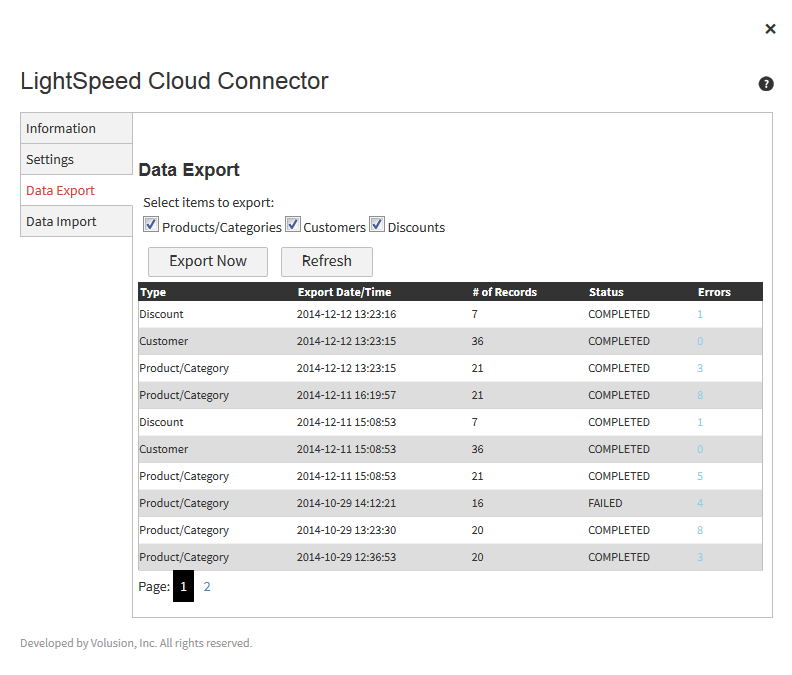
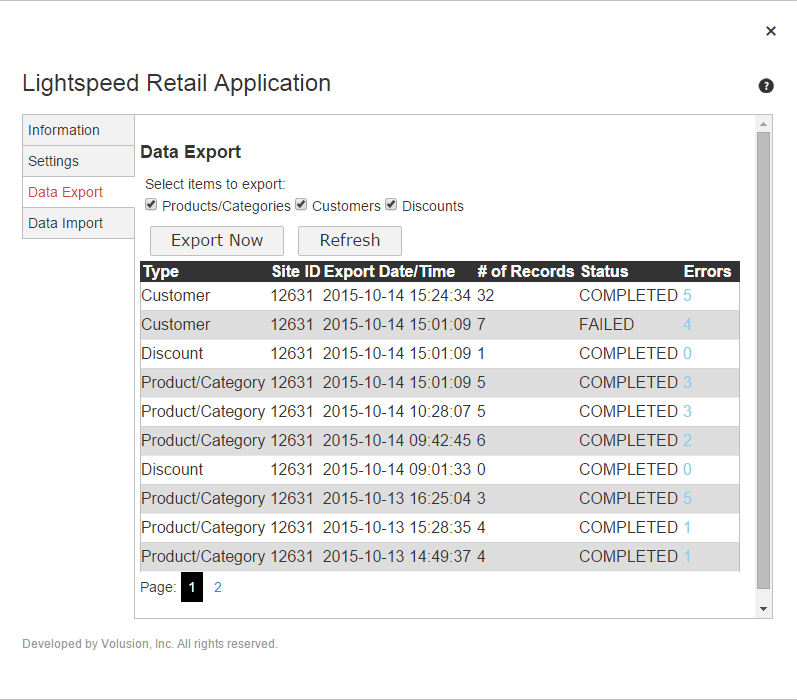
Doc updates Nov 2015
Updated to include the ability to specify a date range for order
imports.

diff --git a/Preview/LightSpeed/Mozu-LightSpeed-App.htm b/Preview/LightSpeed/Mozu-LightSpeed-App.htm
@@ -1,8 +1,8 @@
 <?xml version="1.0" encoding="utf-8"?>
 <html xmlns:MadCap="http://www.madcapsoftware.com/Schemas/MadCap.xsd" MadCap:lastBlockDepth="15" MadCap:lastHeight="488" MadCap:lastWidth="1168">
-    <head><title>LightSpeed by Mozu</title>
+    <head><title>LightSpeed Retail Application by Mozu</title>
         <meta name="author" content="Mozu" />
-        <meta name="description" content="User content for LightSpeed by Mozu" />
+        <meta name="description" content="User content for the LightSpeed Retail Application by Mozu" />
         <meta name="keywords" content="LightSpeed,Mozu" />
 		<link rel="shortcut icon" href="http://www.mozu.com/favicon.ico" />
 		
@@ -104,7 +104,7 @@
                     <div class="navbar-collapse collapse">
                         <ul class="nav navbar-nav navbar-right">
 						<li><a href="versionhistory.html"><span>Version History</span></a></li>
-							<li><a href="//developer.mozu.com/learn/mozu-concepts"><span>Mozu Concepts</span></a></li>
+							<li><a href="http://developer.mozu.com/content/learn/Introduction.htm"><span>Mozu Dev Center</span></a></li>
                         </ul>
                     </div>
                 </div>
@@ -113,18 +113,22 @@
 		<!--Side Navigation TOC -->
 		<div class="row">
 		<div class="landing-title">
-			<h1>LightSpeed Retail Connector Configuration Guide</h1>	
+			<h1>LightSpeed Retail Application Configuration Guide</h1>	
 		</div>
 			<div class="col-md-3" >
 				<nav class="bs-docs-sidebar" >
-					<ul class="nav nav-stacked" >
+					<ul class="nav nav-stacked">
 						<div class="side-heading">Table of Contents</div>
 							<li><a href="#intro">Welcome to LightSpeed and Mozu</a></li>
-							<li><a href="#install">Install LightSpeed</a></li>
+							<li><a href="#install">Install the App</a></li>
 							<li><a href="#configapp">Configure the App</a></li>
 							<li><a href="#enable">Enable the App</a></li>
-							<li><a href="#exportmozu">Export Data from Mozu</a></li>
-							<li><a href="#importlightspeed">Import Data from LightSpeed</a></li>
+							<li><a href="#useapp">Use the App</a>
+								<ul class="nav nav-stacked">
+								<li><a href="#exportmozu">Export Data from Mozu</a></li>
+								<li><a href="#importlightspeed">Import Data from LightSpeed</a></li>
+								</ul>
+						</li>
 							
 					</ul>
 				</nav>
@@ -137,95 +141,106 @@
 					
 					<p><a href="http://www.lightspeedpos.com/retail/pos-system/">LightSpeed Retail</a> provides services to manage your inventory, point of sale, and reporting through your eCommerce storefront. Customers can browse and purchase products from any storefront on any device using multiple forms of payment (cash, credit, debit, in-store credit, gift cards, and more).</p>
 					
-					<p><a href="http://www.mozu.com">Mozu</a> offers an app to leverage LightSpeed Retail services to manage your orders, sync your inventory, and extend your management systems. Through the app, you can map Mozu locations with LightSpeed shops, set import frequencies for Mozu, and manage data imports and exports. Exported data supports Products/Categories, Customers, and Discounts from Mozu into LightSpeed. After modifying your LightSpeed Retail inventory configurations, you can import data into Mozu to sync orders and inventory amounts.  </p>
+					<p><a href="http://www.mozu.com">Mozu</a> offers an app to leverage LightSpeed Retail services to manage your orders, sync your inventory, and extend your management systems. Through the app, you can map Mozu locations to LightSpeed shops, set import frequencies for Mozu, and manage data imports and exports. You can export data (Products/Categories, Customers, and Discounts) from Mozu, modify your inventory configurations in LightSpeed Retail, and import the new data back into Mozu to sync orders and inventory amounts.</p>
 					
-					<p><b>Note:</b> This app only supports the LightSpeed Retail product.</p>
+					<p class="panel-note"><strong>Note:</strong> This app only supports the LightSpeed Retail product.</p>
+
+					<p><strong>Application Features:</strong></p>
+					<ul>
+                            <li>Transfers information between Mozu and your LightSpeed Retail account so you can manage orders and inventory as shoppers make purchases through multiple storefronts.</li>
+                            <li>Updates contacts, orders, inventory, and products with categories.</li>
+                            <li>Maps your various Mozu sites to different LightSpeed shops to maintain a 1-to-1 relationship for inventory management.</li>
+							<li>Enables you to continue using LightSpeed Retail reporting and analytics against Mozu products and purchases.</li>
+                        </ul>
+						 
+					<h3>LightSpeed/Mozu Communication Process</h3>
+						<p>When a shopper submits an order and completes payment, the following occurs between Mozu and the LightSpeed app:</p>
+						
+						<ol>
+						<li>LightSpeed Retail verifies and processes the order inventory amounts and payment information. If the inventory exists per the entered requests (in-store, online to deliver at home, etc.) and the payment information processes, LightSpeed Retail updates the order status and inventory amounts.</li>
+						<li>At the configured frequency, the app imports data for completed orders to Mozu from LightSpeed Retail.</li>
+						<li>Mozu updates all inventory based on the configured locations, amounts, and purchase/delivery requirements. For example, inventory from a warehouse for online delivery versus in-store pickup from an in-store inventory of a brick and mortar storefront.</li>
+						<li>As data updates in Mozu, any changes, including changes to products and categories, customer entries, are exported back to LightSpeed Retail. </li>
+						</ol>
 
 				</section>
 				<section id="install">
-					<h2 >Install Mozu LightSpeed Retail Application on Your Tenant</h2>
+					<h2 >Install the Mozu LightSpeed Retail Application on Your Tenant</h2>
                         <p>After purchasing the Mozu LightSpeed Retail Application, call your sales or professional services representative and request installation on your tenant. Mozu staff will install the app to your tenant, making it available for further configuration and usage in your storefront.</p>
-                        
-                        <p>This custom app integrates LightSpeed Retail with Mozu to support the following:</p>
-                        
-                        <ul>
-                            <li>Export and import information from Mozu to your LightSpeed Retail account to manage orders and inventory as shoppers make purchases through the storefront.</li>
-                            <li>Update contacts, orders, inventory, and products with categories between both systems to leverage features in Mozu and LightSpeed Retail.</li>
-							<li>Allow you to continue using LightSpeed Retail reporting and analytics against Mozu products and purchases.</li>
-                        </ul>
-						 
-						<p>When a shopper submits an order and completes payment, the following occurs between Mozu and the LightSpeed app:</p>
-						
-						<ul>
-						<li>LightSpeed Retail verifies and processes the order inventory amounts and payment information. If the inventory exists per the entered requests (in-store, online to deliver at home, etc) and the payment information processes, LightSpeed Retail updates the order status and inventory amounts.</li>
-						<li>At the configured time and frequency per day, the completed order data is imported into Mozu from LightSpeed Retail.</li>
-						<li>Mozu updates all inventory based on the configured locations, amounts, and purchase/delivery requirements. For example, inventory from a warehouse for online delivery versus in-store pickup from an in-store inventory of a brick and mortar storefront.</li>
-						<li>As data updates in Mozu, it is exported to LightSpeed Retail, including changes to products and categories, customer entries, and discounts. </li>
-						</ul>
-						
-                        <h3 id="configreq">Configuration Requirements</h3>
-						 <p>To configure LightSpeed Retail to work seamlessly with Mozu, you need specific items installed and settings provided. This guide details each step from requirements to final configuration for reviewing order for legitimacy and fraud potential.</p>
                        
+ 				</section>                       
+       				<section id="configapp">	         
+						<h2>Configure the Application</h2>
+                        
+						 <p>To integrate your LightSpeed services with Mozu, review the configuration requirements to ensure you have everything you need to be successful before you begin, and then complete the steps in this section.</p>
+                       <h3 id="configreq">Configuration Requirements</h3>
                         <p>You must meet the following criteria to configure the LightSpeed Retail Connector app:</p>
                         <ul>
                             <li>You must have the Mozu LightSpeed Retail Application installed on your tenant.</li>
                             <li>You must have an active <a href="https://cloud.merchantos.com/login.html">LightSpeed Retail</a> account.</li>
                         </ul>
-				</section>
-				<section id="configapp">				
-                        <h2>Configure the Application</h2>
+
+			<h3 id="authorize">Authorize Mozu to Access LightSpeed</h3>
+                        
 						<p>To integrate your LightSpeed services with Mozu, you must authorize Mozu to access your LightSpeed account. </p>
+						<p class="panel-tip"><strong>Tip:</strong> If you have multiple LightSpeed accounts, you can repeat this procedure for each account.</p>
                         <ol>
-                            <li>From the Mozu Admin page, select <b>Settings</b> &gt; <b>Applications</b>.</li>
-                            <li>Click the <b>Mozu LightSpeed Retail Application</b>.</li>
-                            <li>Click the <b>Configuration</b> link to open configuration settings.</li>
-							<li>On the Settings tab, click <b>Add LightSpeed Account</b>.</li>
-							<li>Select a Mozu Site to link to a LightSpeed Retail account, and then click the <b>Authorize Mozu to Access LightSpeed</b> button.</li>
-							<li>On the LightSpeed Retail login page, sign in with your LightSpeed credentials to authorize Mozu to use your LightSpeed Retail account.</li>
-							<li>Once you've authorized Mozu to use your LightSpeed Retail account, map your Mozu site to your LightSpeed Account. Under the <em>Map Site to LightSpeed Account</em> header, use the drop-down menus to select your Mozu Site and the appropriate LightSpeed Account.<br/>
+                            <li>From Mozu Admin, select <strong>Settings</strong> &gt; <strong>Applications</strong>.</li>
+                            <li>Click the <strong>Mozu LightSpeed Retail Application</strong>.</li>
+                            <li>Click the <strong>Configuration</strong> link to open configuration settings.</li>
+							<li>On the <strong>Settings</strong> tab, click <strong>Add LightSpeed Account</strong>.</li>
+							<li>Select a <strong>Mozu Site</strong> to link to a LightSpeed Retail account and click <strong>Next</strong>.</li>
+							<li>Click the <strong>Authorize Mozu to Access LightSpeed</strong> button.</li>
+							<li>On the LightSpeed Retail login page, sign in with your LightSpeed credentials to authorize Mozu to access your LightSpeed Retail account.</li>
+							<li>Once you've authorized Mozu to use your LightSpeed Retail account, additional fields appear to map your Mozu locations to LightSpeed shops:
 							<img src="lightspeed-settings.png" class="img-mozu"/></li>
-							<li>Under <em>Map Mozu Locations to LightSpeed Shops</em>, select the <b>Mozu Location</b> and map it to a LightSpeed Shop from the drop-down menus. If you want to map additional Mozu locations to LightSpeed Shops, click <b>Add Location</b>.</li>
-							<li>Select the <b>Import Frequency for Sales Import</b>. This sets the amount of times per day LightSpeed exports data to Mozu. Options include Disabled, minutes 1 to 30, 1 hour, 8 hours, 12 hours, and Daily.</li>
-							<li>Click <b>Save</b>. This step connects and configures Mozu to your LightSpeed Retail account.</li>
+							<li>Select the <strong>Lightspeed Account</strong> for which you are mapping locations and shops.</li>
+							<li>Use the <strong>Mozu Location</strong> and <strong>LightSpeed Shop</strong> menus to map locations to shops.</li> 
+							<li>(Optional) If you want to map additional Mozu locations to LightSpeed shops, click <strong>Add Location</strong>.</li>
+							<li>Under <strong>Sales Import</strong>, select the <strong>Import Frequency</strong> for data transfers from LightSpeed to Mozu. Importing data more frequently ensures the most accurate information appears in Mozu. Importing data less frequently can save bandwidth and optimize performance.<br><span class="panel-note"><strong>Note:</strong> You can also <a href="#importlightspeed">import data manually</a> from the <strong>Data Import</strong> tab.</span></li>
+							<li>Click <strong>Save</strong>.</li>
 						</ol>
                         						
 				</section>
 				<section id="enable">
-                        <h2>Enable Mozu LightSpeed Retail Application</h2>
+                        <h2>Enable the App</h2>
+                        <p>After configuration, enable the LightSpeed Retail Application in Mozu to apply its functionality to your tenant:</p>
                         <ol>
-                            <li>On the Mozu Admin top bar, select <b>Settings</b> &gt; <b>Applications</b>.</li>
-                            <li>Click <b>Mozu LightSpeed Retail Application</b>.</li>
-                            <li>Click <b>Enable App</b> on the LightSpeed page.</li>
+                            <li>On the Mozu Admin top bar, select <strong>Settings</strong> &gt; <strong>Applications</strong>.</li>
+                            <li>Click <strong>Mozu LightSpeed Retail Application</strong>.</li>
+                            <li>Click <strong>Enable App</strong> on the LightSpeed page.</li>
                         </ol>
 				</section>
-				<section id="exportmozu">
-                        <h2>Export Data From Mozu to LightSpeed Retail</h2>
-						<p>With your Mozu and LightSpeed Retail accounts connected and configured, you should perform an export of data to LightSpeed. This data sets the available products, inventory amounts, and data for orders including customer records and available discounts.</p>
-						<p>As you make changes to your catalog, customer records, and discounts, the event system keeps LightSpeed updated with add, delete, and update information.</p>
-						<p>The tab displays the selectable data types to export, a manual export button, and a refresh option for the table. The table displays an entry of exported data per data type with the date/time, number of records exported, status, and a linked error log. If no errors occur, the link is 0 without data to display. The status options include in-progress, failed, and completed.</p>
+				<section id="useapp">
+					<h2>Use the App</h2>
+					<p class="panel-note"><strong>Note:</strong> You must <a href="#enable">enable the LightSpeed Retail Application in Mozu</a> before you can import or export data.</p>
+                        <h3 id="exportmozu">Export Data From Mozu to LightSpeed Retail</h3>
+						<p>You must perform a data export the first time you configure and enable the LightSpeed app. This initial export sets the available products, inventory amounts, and data for orders, including customer records and available discounts. After the initial export, changes to your catalog, customer records, and discounts, are automatically sent to LightSpeed through events.</p>
+						<p class="panel-note"><strong>Note:</strong> You do NOT need to manually export data every time you make an update in Mozu. After the initial data export, the app automatically handles data additions, deletions, and updates. You only need to re-export data if your data has become inaccurate and you are scrubbing and replacing existing entries.</p>
+						
                         <ol>
-                            <li>On the Mozu Admin top bar, select <b>Settings</b> &gt; <b>Applications</b>.</li>
-                            <li>Click <b>Mozu LightSpeed Retail Application</b>.</li>
-                            <li>Click the Configuration link to open configuration settings. </li>
-							<li>Click the <b>Data Export</b> tab.</li>
-							<li>Select what data you want to export to LightSpeed Retail from Mozu: Products/Categories, Customers, and/or Discounts. Selecting all options is recommended. </li>
-							<li>Click <b>Export Now</b>.</li>
+                            <li>On the Mozu Admin top bar, select <strong>Settings</strong> &gt; <strong>Applications</strong>.</li>
+                            <li>Click <strong>Mozu LightSpeed Retail Application</strong>.</li>
+                            <li>Click the <strong>Configuration</strong> link to open configuration settings. </li>
+							<li>Go to the <strong>Data Export</strong> tab.</li>
+							<li>Select the type of data you want to export to LightSpeed Retail from Mozu: Products/Categories, Customers, and/or Discounts. Selecting all options is recommended. </li>
+							<li>Click <strong>Export Now</strong>.</li>
 							<li>An export job begins for each data type, posting an entry in the table with the date/time, number of records exported, status, and a linked error log. <br/>
 							<img src="lightspeed-export.png" class="img-mozu"/></li>
                         </ol>
-				</section>
-				<section id="importlightspeed">
-                        <h2 >Import Data From LightSpeed Retail to Mozu</h2>
-						<p>The data imported from LightSpeed Retail is maintained on an automated schedule. This schedule is determined by the frequency configuration in the Settings tab. The next scheduled import is displayed with a date and time. The imported data is for completed sales which updates order, customer, and inventory data in Mozu. </p>
-						<p>The table includes an entry for every import listed by date and time. The number of sales is listed. If no sales are imported, the amount is listed as 0. The status is displayed as in progress, failed, or completed. A linked report of errors provides details on each import. </p>
-						<p>You can import data at the scheduled time or on-demand by clicking <b>Import Now</b>.</p>
+
+                    <h3 id="importlightspeed">Import Data From LightSpeed Retail to Mozu</h3>
+						<p>Most data imports from LightSpeed Retail occur automatically, according to the <strong>Import Frequency</strong> you specify when you <a href="#configapp">configure the app</a>. The <strong>Data Import</strong> tab shows the date and time of the <strong>Next Scheduled Import</strong>, as well as a table listing details for previous imports. Each import contains all sales that were completed since the previous import, and updates order, customer, and inventory data in Mozu.</p>
+						
+						<p>The tab also includes an <strong>Import Now</strong> option that you can use to manually import data from LightSpeed to Mozu:</p>
                         <ol>
-                            <li>On the Mozu Admin top bar, select <b>Settings</b> &gt; <b>Applications</b>.</li>
-                            <li>Click <b>Mozu LightSpeed Retail Application</b>.</li>
-                            <li>Click the Configuration link to open configuration settings. </li>
-							<li>Click the <b>Data Import</b> tab.</li>
-							<li>Click <b>Import Now</b>.</li>
-							<li>An import job begins from LightSpeed Retail, posting an entry in the table with the date/time, number of sales, status, and a linked error log. <br/>
+                            <li>On the Mozu Admin top bar, select <strong>Settings</strong> &gt; <strong>Applications</strong>.</li>
+                            <li>Click <strong>Mozu LightSpeed Retail Application</strong>.</li>
+                            <li>Click the <strong>Configuration</strong> link to open configuration settings. </li>
+							<li>Go to the <strong>Data Import</strong> tab.</li>
+							<li>(Optional) Specify a date range for which to import orders. If you do not specify a date range, the app imports all sales that have been processed in LightSpeed since the last data import.</li>
+							<li>Click <strong>Import Now</strong>.</li>
+							<li>An import job begins from LightSpeed Retail, posting an entry in the table with the date/time, number of sales, status, and a linked error log: <br/>
 							<img src="lightspeed-import.png" class="img-mozu"/></li>
                         </ol>
 				</section>

diff --git a/Preview/LightSpeed/versionhistory.html b/Preview/LightSpeed/versionhistory.html
@@ -2,7 +2,7 @@
 <html>
     <head><title>Version History</title>
         <meta name="author" content="Mozu" />
-        <meta name="description" content="App version history for Mozu app." />
+        <meta name="description" content="App version history for the LightSpeed Retail Application for Mozu." />
         <meta name="keywords" content="Mozu,App" />
 		<link rel="shortcut icon" href="http://www.mozu.com/favicon.ico" />
 		
@@ -104,7 +104,7 @@
                     <div class="navbar-collapse collapse">
                         <ul class="nav navbar-nav navbar-right">
 						<li><a href="Mozu-LightSpeed-App.htm"><span>App Documentation</span></a></li>
-							<li><a href="//developer.mozu.com/learn/mozu-concepts"><span>Mozu Concepts</span></a></li>
+							<li><a href="http://developer.mozu.com/content/learn/Introduction.htm"><span>Mozu Dev Center</span></a></li>
                         </ul>
                     </div>
                 </div>
@@ -113,12 +113,13 @@
 		<!--Side Navigation TOC -->
 		<div class="row">
 		<div class="landing-title">
-			<h1>Mozu App Version History for LightSpeed</h1>	
+			<h1>LightSpeed Retail Application for Mozu Version History</h1>	
 		</div>
 			<div class="col-md-3" >
 				<nav class="bs-docs-sidebar" >
 					<ul class="nav nav-stacked" >
 						<div class="side-heading">Table of Contents</div>
+							<li><a href="#Nov2015">November 2015</a></li>
 							<li><a href="#Apr2015">April 2015</a></li>
 							<li><a href="#Mar2015">March 2015</a></li>
 					</ul>
@@ -127,9 +128,16 @@
                     
             <div class="col-md-9 content" >
                 <!-- Documentation content -->
+                <section id="Nov2015">
+					<h2>November, 2015</h2>
+					<p>Thanks for using the LightSpeed Retail Application for Mozu! Here's what's new in this version:</p>
+					<ul>
+					<li>Added the ability to specify a date range for manual sales imports.</li>
+					</ul>
+				</section>
 				<section id="Apr2015">
 					<h2>April, 2015</h2>
-					<p>Thanks for using the LightSpeed Cloud Connector by Mozu! Here's what's new in this version:</p>
+					<p>Thanks for using the LightSpeed Retail Application for Mozu! Here's what's new in this version:</p>
 					<ul>
 					<li>Increased the speed of loading and saving configuration data.</li>
 					<li>Fixed an issue where users could not switch the LightSpeed account associated with their Mozu tenant.</li>

diff --git a/Preview/LightSpeed/mozu-bootswatch.css b/Preview/LightSpeed/mozu-bootswatch.css
@@ -605,16 +605,29 @@ ol {
 	margin-bottom: 10px;
 }
 
+li p.note {
+	margin-bottom: 0;
+	line-height: 1.42857143;
+}
+
 ul {
 	list-style-type: square;
+}
+
 }
 ul ul,
 ol ul,
 ul ol,
 ol ol {
 	margin-bottom: 0;
-	list-style-type: square;
+	padding: 0;
 }
+
+ol ol {	
+	list-style-type: lower-alpha;
+	margin-bottom: 0;
+}
+
 .list-unstyled {
 	padding-left: 0;
 	list-style: none;
@@ -628,6 +641,7 @@ ol ol {
 	display: inline-block;
 	padding-left: 5px;
 	padding-right: 5px;
+
 }
 dl {
 	margin-top: 0;
@@ -4409,6 +4423,32 @@ a.list-group-item-danger.active:focus {
 	border-bottom-right-radius: 0px;
 	border-bottom-left-radius: 0px;
 }
+.panel-note {
+    padding: 10px 15px;
+    color: #3a87ad;
+	background-color: #d9edf7;
+	border-color: #bce8f1;
+    margin: 20px 0px 20px 0px;
+    display: block;
+}
+
+.panel-tip {
+    padding: 10px 15px;
+    color: #468847;
+	background-color: #dff0d8;
+	border-color: #d6e9c6;
+    margin: 20px 0px 20px 0px;
+    display: block;
+}
+
+.panel-warning {
+    padding: 10px 15px;
+    color: #c09853;
+	background-color: #fcf8e3;
+	border-color: #fbeed5;
+    margin: 20px 0px 20px 0px;
+    display: block;
+}
 .panel > .list-group {
 	margin-bottom: 0;
 }
@@ -5673,6 +5713,10 @@ p {
 	line-height: 1.8em;
 	margin-bottom: 15px;
 }
+.note {
+	padding-left: 20px;
+
+}
 p.lead {
 	font-size: 24px;
 	color: #999;
@@ -5710,6 +5754,23 @@ a:hover, a:focus {
 	max-width: 75%;
 	height: auto;
 	border:1px solid #383b3c;
+}
+
+.img-mozu-center {	
+	display: block;
+	width: 75% \9;
+	max-width: 75%;
+	height: auto;
+	border:1px solid #383b3c;
+	margin-left: auto;
+	margin-right: auto;
+}
+
+figure figcaption {
+    text-align: center;
+    max-width: 100%;
+    font-style: italic;
+    margin-bottom: 10px;
 }
 
 /* Landing page Styles */
